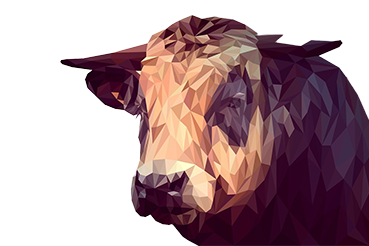
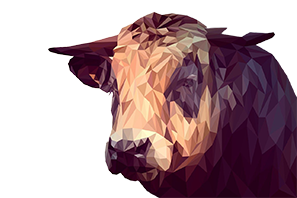
Fixad djur bilder

diff --git a/css/style.css b/css/style.css
@@ -38,8 +38,8 @@ h2{
     grid-template-areas: 
     'heu heu'
     'nau nau'
-    'ash p1h'
-    'p2h p2h';
+    'ash pih'
+    'abl abl';
 }
 
 
@@ -54,38 +54,34 @@ h2{
 }
 
 
-#pictures_1_home{
-    grid-area: p1h;
+#pictures_home{
+    grid-area: pih;
     display: grid;
     grid-template-columns: 1fr 1fr;
     grid-template-rows: 1fr 1fr;
     grid-template-areas: 
-    'a1 a2'
-    'a3 a4';
+    'ac al'
+    'ac al';
 }
 
-#animal_1{
-    grid-area: a1;
-    background-image: url(/img/animals/animal1.png);
+#animal_collage{
+    grid-area: ac;
+    display: flex;
+    flex-wrap: wrap;
 }
 
-#animal_2{
-    grid-area: a2;
-    background-image: url(/img/animals/animal2.png);
+#animal_collage img{
+    width: 284.85px;
+    height: 198px;
 }
 
-#animal_3{
-    grid-area: a3;
-    background-image: url(/img/animals/animal3.png);
+#animal_large{
+    grid-area: al;
 }
 
-#animal_4{
-    grid-area: a4;
-    background-image: url(/img/animals/animal4.png);
-}
 
-#pictures_2_home{
-    grid-area: p2h;
+#animal_bottom_large{
+    grid-area: abl;
     background-image: url(/img/animals/snake_background.jpg);
     background-size: cover;
     background-position: 0px -320px;

diff --git a/index.html b/index.html
@@ -41,14 +41,18 @@
         </ul>
     </aside>
 
-    <section id="pictures_1_home">
-        <article id="animal_1"></article>
-        <article id="animal_2"></article>
-        <article id="animal_3"></article>
-        <article id="animal_4"></article>
+    <section id="pictures_home">
+        <article id="animal_collage">
+            <img src="/img/animals/animal1.png" alt="Ox">
+            <img src="/img/animals/animal2.png" alt="Eagle">
+            <img src="/img/animals/animal3.png" alt="Lizard">
+            <img src="/img/animals/animal4.png" alt="Ram">
+        </article>
+        <article id="animal_large">
+        </article>
     </section>
 
-    <section id="pictures_2_home">
+    <section id="animal_bottom_large">
 
     </section>
 </div>
